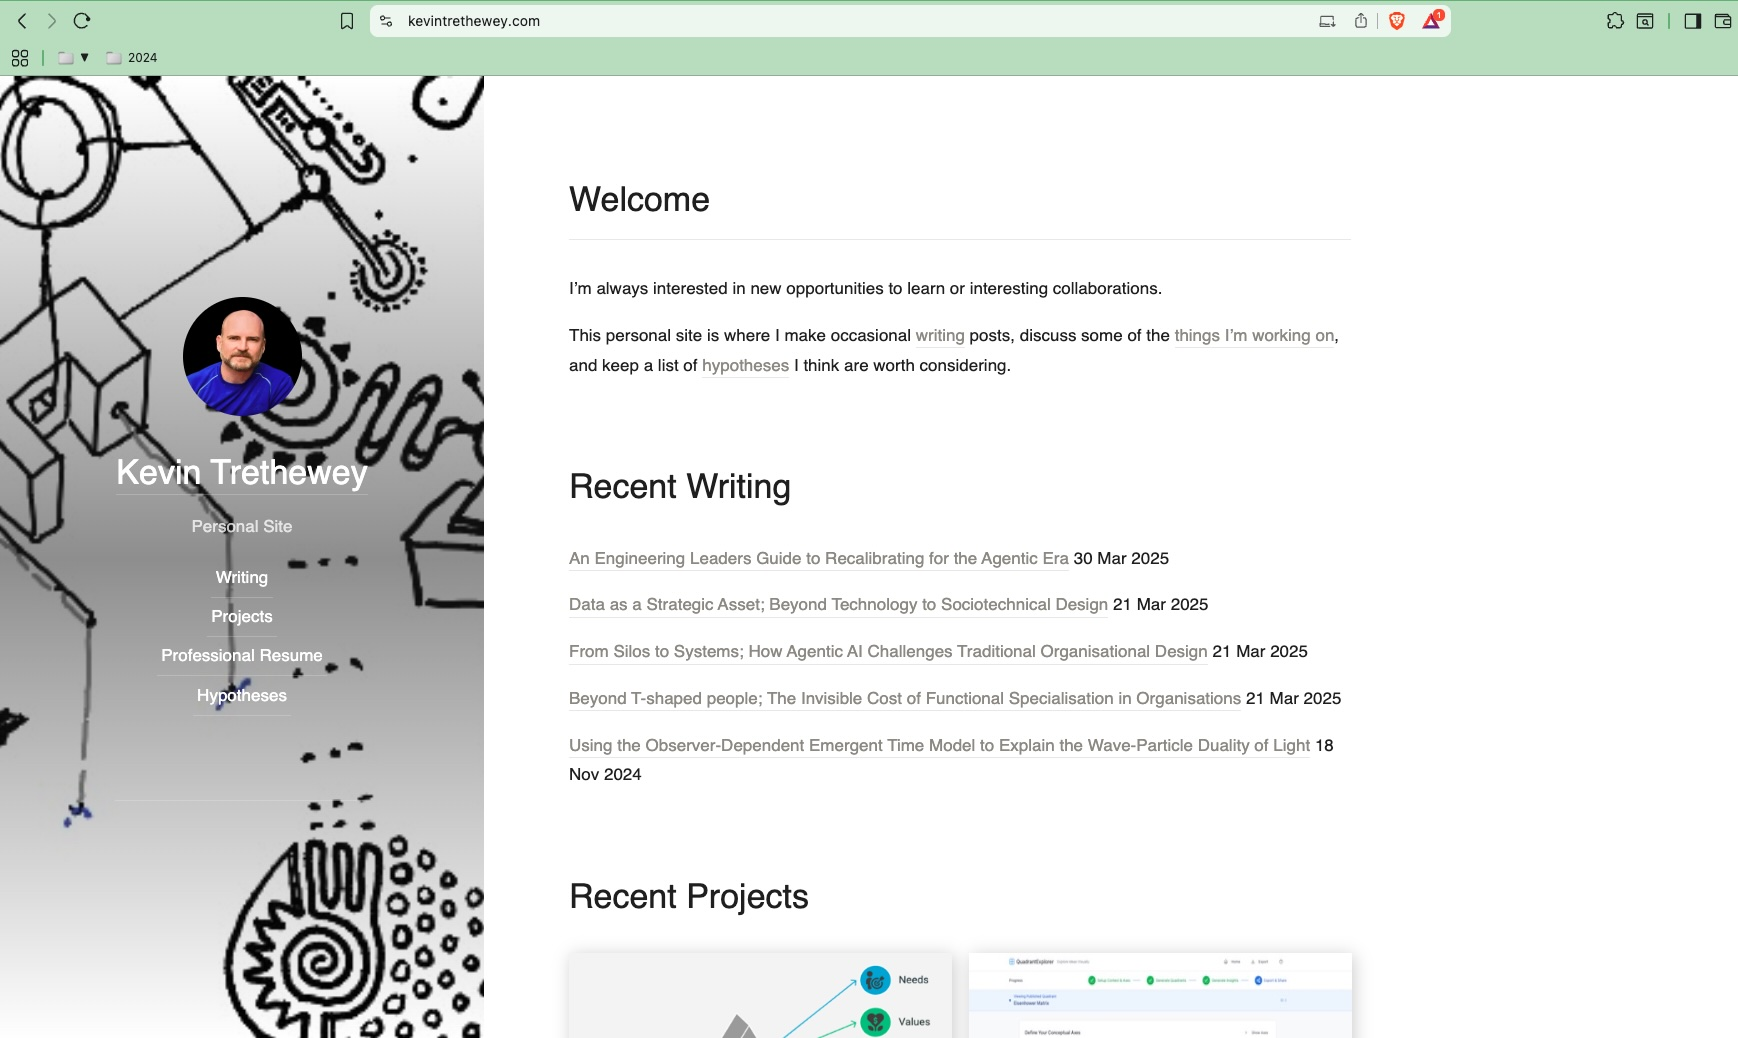
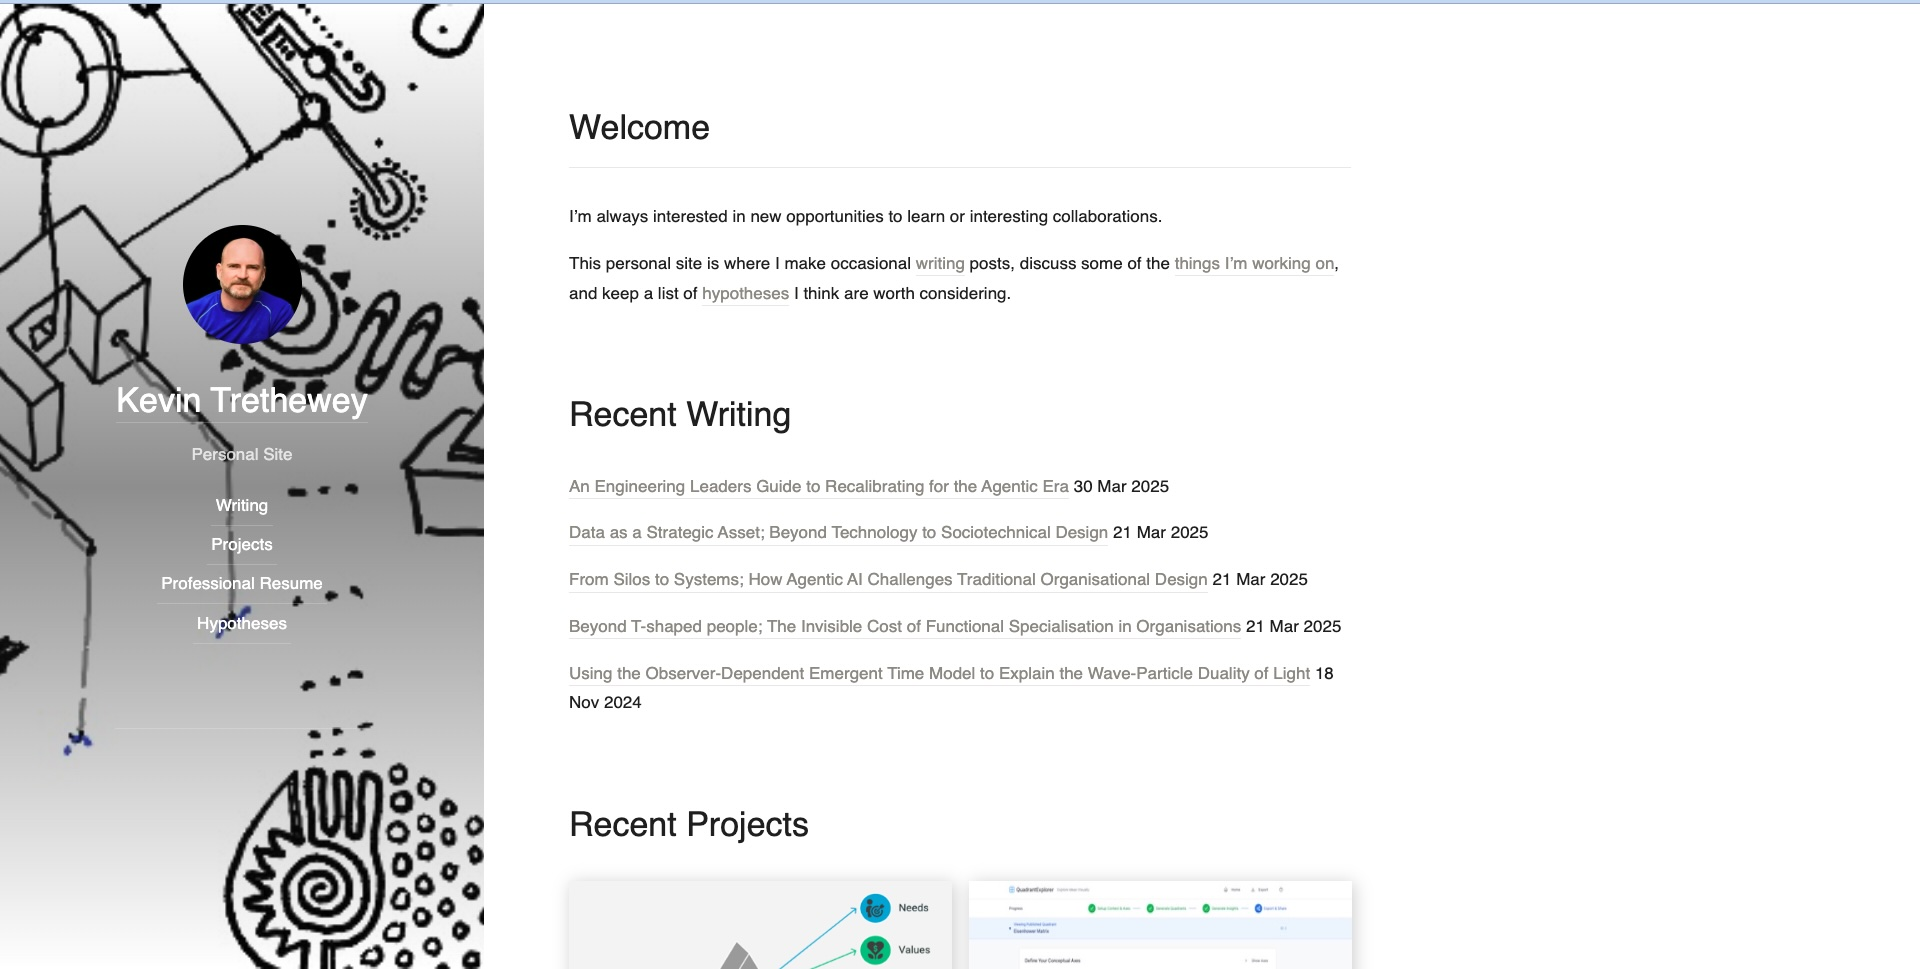
Minor fix

diff --git a/_sass/my-style.scss b/_sass/my-style.scss
@@ -77,69 +77,151 @@ p {
   margin-bottom: 1rem;
 }
 
-// Sidebar fixes for white background
-.sidebar {
-  .sidebar-sticky {
-    background: rgba(0,0,0,0.6) !important;
-    border-radius: 8px;
-    padding: 1.5rem;
-    backdrop-filter: blur(2px);
-  }
-  
-  a {
-    color: white !important;
-    text-shadow: 0 1px 2px rgba(0,0,0,0.8);
-    font-weight: 600;
-    
-    &:hover {
-      color: rgba(255,255,255,0.9) !important;
-      text-shadow: 0 1px 3px rgba(0,0,0,0.9);
-    }
-  }
-  
-  .text-muted,
-  p, span, div {
-    color: rgba(255,255,255,0.8) !important;
-    text-shadow: 0 1px 2px rgba(0,0,0,0.8);
-  }
-  
-  h1, h2, h3, h4, h5, h6 {
-    color: white !important;
-    text-shadow: 0 1px 2px rgba(0,0,0,0.8);
-  }
+// ULTIMATE NUCLEAR OPTION - MOST AGGRESSIVE CSS POSSIBLE
+html:not(#nonexistent) body:not(#nonexistent) #_yPushState:not(#nonexistent) hy-drawer.loaded:not(#nonexistent) .sidebar:not(#nonexistent) .sidebar-sticky:not(#nonexistent),
+html:not(#nonexistent) body:not(#nonexistent) hy-drawer.loaded:not(#nonexistent) .sidebar:not(#nonexistent) .sidebar-sticky:not(#nonexistent),
+html:not(#nonexistent) body:not(#nonexistent) .sidebar:not(#nonexistent) .sidebar-sticky:not(#nonexistent),
+html:not(#nonexistent) .sidebar:not(#nonexistent) .sidebar-sticky:not(#nonexistent),
+.sidebar .sidebar-sticky {
+  background: rgba(0,0,0,0.8) !important;
+  border-radius: 8px !important;
+  padding: 1.5rem !important;
+  backdrop-filter: blur(4px) !important;
+  position: relative !important;
+  z-index: 999 !important;
+  box-shadow: 0 4px 12px rgba(0,0,0,0.5) !important;
 }
 
-// Background image and navigation fixes
+// ULTIMATE TEXT FIXES
+html:not(#nonexistent) body:not(#nonexistent) #_yPushState:not(#nonexistent) hy-drawer.loaded:not(#nonexistent) .sidebar:not(#nonexistent) a:not(#nonexistent),
+html:not(#nonexistent) body:not(#nonexistent) hy-drawer.loaded:not(#nonexistent) .sidebar:not(#nonexistent) a:not(#nonexistent),
+html:not(#nonexistent) body:not(#nonexistent) .sidebar:not(#nonexistent) a:not(#nonexistent),
+html:not(#nonexistent) .sidebar:not(#nonexistent) a:not(#nonexistent),
+.sidebar a {
+  color: #ffffff !important;
+  text-shadow: 0 2px 4px rgba(0,0,0,1) !important;
+  font-weight: 700 !important;
+  text-decoration: none !important;
+}
+
+html:not(#nonexistent) body:not(#nonexistent) #_yPushState:not(#nonexistent) hy-drawer.loaded:not(#nonexistent) .sidebar:not(#nonexistent) a:hover:not(#nonexistent),
+html:not(#nonexistent) body:not(#nonexistent) hy-drawer.loaded:not(#nonexistent) .sidebar:not(#nonexistent) a:hover:not(#nonexistent),
+html:not(#nonexistent) body:not(#nonexistent) .sidebar:not(#nonexistent) a:hover:not(#nonexistent),
+.sidebar a:hover {
+  color: #ffffff !important;
+  text-shadow: 0 2px 6px rgba(0,0,0,1) !important;
+  opacity: 0.9 !important;
+}
+
+// ULTIMATE TEXT ELEMENTS
+html:not(#nonexistent) body:not(#nonexistent) #_yPushState:not(#nonexistent) hy-drawer.loaded:not(#nonexistent) .sidebar:not(#nonexistent) .text-muted:not(#nonexistent),
+html:not(#nonexistent) body:not(#nonexistent) #_yPushState:not(#nonexistent) hy-drawer.loaded:not(#nonexistent) .sidebar:not(#nonexistent) p:not(#nonexistent),
+html:not(#nonexistent) body:not(#nonexistent) #_yPushState:not(#nonexistent) hy-drawer.loaded:not(#nonexistent) .sidebar:not(#nonexistent) span:not(#nonexistent),
+html:not(#nonexistent) body:not(#nonexistent) #_yPushState:not(#nonexistent) hy-drawer.loaded:not(#nonexistent) .sidebar:not(#nonexistent) div:not(#nonexistent),
+html:not(#nonexistent) body:not(#nonexistent) hy-drawer.loaded:not(#nonexistent) .sidebar:not(#nonexistent) .text-muted:not(#nonexistent),
+html:not(#nonexistent) body:not(#nonexistent) hy-drawer.loaded:not(#nonexistent) .sidebar:not(#nonexistent) p:not(#nonexistent),
+html:not(#nonexistent) body:not(#nonexistent) hy-drawer.loaded:not(#nonexistent) .sidebar:not(#nonexistent) span:not(#nonexistent),
+html:not(#nonexistent) body:not(#nonexistent) hy-drawer.loaded:not(#nonexistent) .sidebar:not(#nonexistent) div:not(#nonexistent),
+html:not(#nonexistent) body:not(#nonexistent) .sidebar:not(#nonexistent) .text-muted:not(#nonexistent),
+html:not(#nonexistent) body:not(#nonexistent) .sidebar:not(#nonexistent) p:not(#nonexistent),
+html:not(#nonexistent) body:not(#nonexistent) .sidebar:not(#nonexistent) span:not(#nonexistent),
+html:not(#nonexistent) body:not(#nonexistent) .sidebar:not(#nonexistent) div:not(#nonexistent),
+.sidebar .text-muted,
+.sidebar p,
+.sidebar span,
+.sidebar div {
+  color: #ffffff !important;
+  text-shadow: 0 2px 4px rgba(0,0,0,1) !important;
+  font-weight: 600 !important;
+}
+
+// ULTIMATE HEADINGS
+html:not(#nonexistent) body:not(#nonexistent) #_yPushState:not(#nonexistent) hy-drawer.loaded:not(#nonexistent) .sidebar:not(#nonexistent) h1:not(#nonexistent),
+html:not(#nonexistent) body:not(#nonexistent) #_yPushState:not(#nonexistent) hy-drawer.loaded:not(#nonexistent) .sidebar:not(#nonexistent) h2:not(#nonexistent),
+html:not(#nonexistent) body:not(#nonexistent) #_yPushState:not(#nonexistent) hy-drawer.loaded:not(#nonexistent) .sidebar:not(#nonexistent) h3:not(#nonexistent),
+html:not(#nonexistent) body:not(#nonexistent) #_yPushState:not(#nonexistent) hy-drawer.loaded:not(#nonexistent) .sidebar:not(#nonexistent) h4:not(#nonexistent),
+html:not(#nonexistent) body:not(#nonexistent) #_yPushState:not(#nonexistent) hy-drawer.loaded:not(#nonexistent) .sidebar:not(#nonexistent) h5:not(#nonexistent),
+html:not(#nonexistent) body:not(#nonexistent) #_yPushState:not(#nonexistent) hy-drawer.loaded:not(#nonexistent) .sidebar:not(#nonexistent) h6:not(#nonexistent),
+html:not(#nonexistent) body:not(#nonexistent) hy-drawer.loaded:not(#nonexistent) .sidebar:not(#nonexistent) h1:not(#nonexistent),
+html:not(#nonexistent) body:not(#nonexistent) hy-drawer.loaded:not(#nonexistent) .sidebar:not(#nonexistent) h2:not(#nonexistent),
+html:not(#nonexistent) body:not(#nonexistent) hy-drawer.loaded:not(#nonexistent) .sidebar:not(#nonexistent) h3:not(#nonexistent),
+html:not(#nonexistent) body:not(#nonexistent) hy-drawer.loaded:not(#nonexistent) .sidebar:not(#nonexistent) h4:not(#nonexistent),
+html:not(#nonexistent) body:not(#nonexistent) hy-drawer.loaded:not(#nonexistent) .sidebar:not(#nonexistent) h5:not(#nonexistent),
+html:not(#nonexistent) body:not(#nonexistent) hy-drawer.loaded:not(#nonexistent) .sidebar:not(#nonexistent) h6:not(#nonexistent),
+html:not(#nonexistent) body:not(#nonexistent) .sidebar:not(#nonexistent) h1:not(#nonexistent),
+html:not(#nonexistent) body:not(#nonexistent) .sidebar:not(#nonexistent) h2:not(#nonexistent),
+html:not(#nonexistent) body:not(#nonexistent) .sidebar:not(#nonexistent) h3:not(#nonexistent),
+html:not(#nonexistent) body:not(#nonexistent) .sidebar:not(#nonexistent) h4:not(#nonexistent),
+html:not(#nonexistent) body:not(#nonexistent) .sidebar:not(#nonexistent) h5:not(#nonexistent),
+html:not(#nonexistent) body:not(#nonexistent) .sidebar:not(#nonexistent) h6:not(#nonexistent),
+.sidebar h1,
+.sidebar h2,
+.sidebar h3,
+.sidebar h4,
+.sidebar h5,
+.sidebar h6 {
+  color: #ffffff !important;
+  text-shadow: 0 2px 4px rgba(0,0,0,1) !important;
+  font-weight: 700 !important;
+}
+
+// ULTIMATE NAVIGATION BUTTONS
+html:not(#nonexistent) body:not(#nonexistent) #_yPushState:not(#nonexistent) .nav-btn:not(#nonexistent),
+html:not(#nonexistent) body:not(#nonexistent) .nav-btn:not(#nonexistent),
+html:not(#nonexistent) .nav-btn:not(#nonexistent),
+.nav-btn {
+  color: #ffffff !important;
+  opacity: 1 !important;
+  text-shadow: 0 2px 4px rgba(0,0,0,1) !important;
+}
+
+html:not(#nonexistent) body:not(#nonexistent) #_yPushState:not(#nonexistent) .nav-btn:not(#nonexistent) .icon-contrast:not(#nonexistent),
+html:not(#nonexistent) body:not(#nonexistent) #_yPushState:not(#nonexistent) .nav-btn:not(#nonexistent) .icon-menu:not(#nonexistent),
+html:not(#nonexistent) body:not(#nonexistent) .nav-btn:not(#nonexistent) .icon-contrast:not(#nonexistent),
+html:not(#nonexistent) body:not(#nonexistent) .nav-btn:not(#nonexistent) .icon-menu:not(#nonexistent),
+.nav-btn .icon-contrast,
+.nav-btn .icon-menu {
+  color: #ffffff !important;
+  opacity: 1 !important;
+  font-size: 1.4rem !important;
+  text-shadow: 0 2px 4px rgba(0,0,0,1) !important;
+}
+
+html:not(#nonexistent) body:not(#nonexistent) #_yPushState:not(#nonexistent) .nav-btn:hover:not(#nonexistent),
+html:not(#nonexistent) body:not(#nonexistent) .nav-btn:hover:not(#nonexistent),
+.nav-btn:hover {
+  color: #ffffff !important;
+  opacity: 0.8 !important;
+}
+
+html:not(#nonexistent) body:not(#nonexistent) #_yPushState:not(#nonexistent) .nav-btn:hover:not(#nonexistent) .icon-contrast:not(#nonexistent),
+html:not(#nonexistent) body:not(#nonexistent) #_yPushState:not(#nonexistent) .nav-btn:hover:not(#nonexistent) .icon-menu:not(#nonexistent),
+html:not(#nonexistent) body:not(#nonexistent) .nav-btn:hover:not(#nonexistent) .icon-contrast:not(#nonexistent),
+html:not(#nonexistent) body:not(#nonexistent) .nav-btn:hover:not(#nonexistent) .icon-menu:not(#nonexistent),
+.nav-btn:hover .icon-contrast,
+.nav-btn:hover .icon-menu {
+  color: #ffffff !important;
+  opacity: 0.8 !important;
+}
+
+// ULTIMATE BACKGROUND IMAGE FIXES
+html:not(#nonexistent) body:not(#nonexistent) .sidebar-bg:not(#nonexistent),
+html:not(#nonexistent) .sidebar-bg:not(#nonexistent),
 .sidebar-bg {
   background-size: contain !important;
   background-repeat: no-repeat !important;
   background-position: center center !important;
 }
 
-.nav-btn {
-  color: white !important;
-  opacity: 1 !important;
-  
-  .icon-contrast, .icon-menu {
-    color: white !important;
-    opacity: 1 !important;
-    font-size: 1.2rem;
-    text-shadow: 0 1px 2px rgba(0,0,0,0.8);
-  }
-  
-  &:hover {
-    color: rgba(255,255,255,0.8) !important;
-    
-    .icon-contrast, .icon-menu {
-      color: rgba(255,255,255,0.8) !important;
-    }
-  }
+// SIMPLE BACKGROUND IMAGE FIX - SHOULD WORK
+.sidebar {
+  background-size: contain !important;
+  background-repeat: no-repeat !important;
+  background-position: center center !important;
 }
 
-// Higher specificity for production mode
-html body .sidebar .sidebar-sticky {
-  background: rgba(0,0,0,0.6) !important;
-  border-radius: 8px;
-  padding: 1.5rem;
-  backdrop-filter: blur(2px);
+hy-drawer .sidebar {
+  background-size: contain !important;
+  background-repeat: no-repeat !important;
+  background-position: center center !important;
 }

diff --git a/_includes/my-head.html b/_includes/my-head.html
@@ -11,3 +11,127 @@ Fill in `href`. You may have to adjust `rel`.
 -->
 <noscript><link href="<path/to/content.css>" rel="stylesheet"></noscript>
 {% endcomment %}
+
+<style>
+/* DIRECT CSS - BACKGROUND IMAGE FIX - AGGRESSIVE TARGETING */
+.sidebar,
+.sidebar-bg,
+hy-drawer .sidebar,
+hy-drawer .sidebar-bg,
+body .sidebar,
+body .sidebar-bg,
+html body .sidebar,
+html body .sidebar-bg,
+.sidebar .sidebar-bg,
+hy-drawer.loaded .sidebar,
+hy-drawer.loaded .sidebar-bg {
+  background-size: contain !important;
+  background-repeat: no-repeat !important;
+  background-position: center center !important;
+}
+
+/* Target any element with background image */
+[style*="background-image"] {
+  background-size: contain !important;
+  background-repeat: no-repeat !important;
+  background-position: center center !important;
+}
+
+/* Even more specific targeting */
+* {
+  background-size: contain !important;
+  background-repeat: no-repeat !important;
+  background-position: center center !important;
+}
+
+/* Override any inline styles */
+.sidebar[style],
+.sidebar-bg[style],
+hy-drawer .sidebar[style],
+hy-drawer .sidebar-bg[style] {
+  background-size: contain !important;
+  background-repeat: no-repeat !important;
+  background-position: center center !important;
+}
+
+/* SIDEBAR TEXT READABILITY FIXES */
+.sidebar .sidebar-sticky {
+  background: rgba(0,0,0,0.7) !important;
+  border-radius: 8px !important;
+  padding: 1.5rem !important;
+  backdrop-filter: blur(4px) !important;
+  position: relative !important;
+  z-index: 999 !important;
+  box-shadow: 0 4px 12px rgba(0,0,0,0.5) !important;
+}
+
+.sidebar a {
+  color: #ffffff !important;
+  text-shadow: 0 2px 4px rgba(0,0,0,1) !important;
+  font-weight: 700 !important;
+  text-decoration: none !important;
+}
+
+.sidebar a:hover {
+  color: #ffffff !important;
+  text-shadow: 0 2px 6px rgba(0,0,0,1) !important;
+  opacity: 0.9 !important;
+}
+
+.sidebar .text-muted,
+.sidebar p,
+.sidebar span,
+.sidebar div {
+  color: #ffffff !important;
+  text-shadow: 0 2px 4px rgba(0,0,0,1) !important;
+  font-weight: 600 !important;
+}
+
+.sidebar h1,
+.sidebar h2,
+.sidebar h3,
+.sidebar h4,
+.sidebar h5,
+.sidebar h6 {
+  color: #ffffff !important;
+  text-shadow: 0 2px 4px rgba(0,0,0,1) !important;
+  font-weight: 700 !important;
+}
+
+/* NAVIGATION BUTTONS - SIMPLE VISIBILITY FIX */
+#_menu,
+#_search {
+  color: #000000 !important;
+  background: rgba(255,255,255,0.7) !important;
+  border-radius: 3px !important;
+  padding: 4px !important;
+}
+
+.icon-menu::before,
+.icon-contrast::before {
+  color: #000000 !important;
+  text-shadow: 0 0 2px rgba(255,255,255,1) !important;
+}
+
+.nav-btn:hover,
+a.nav-btn:hover,
+#_menu:hover,
+#_search:hover {
+  color: #ffffff !important;
+  opacity: 0.8 !important;
+  background: rgba(0,0,0,0.5) !important;
+}
+
+.nav-btn:hover .icon-contrast,
+.nav-btn:hover .icon-menu,
+a.nav-btn:hover .icon-contrast,
+a.nav-btn:hover .icon-menu,
+#_menu:hover .icon-contrast,
+#_menu:hover .icon-menu,
+#_search:hover .icon-contrast,
+#_search:hover .icon-menu {
+  color: #ffffff !important;
+  opacity: 0.8 !important;
+}
+
+</style>

diff --git a/_includes/my-direct-css.html b/_includes/my-direct-css.html
@@ -1,0 +1,14 @@
+<style>
+/* DIRECT CSS - BACKGROUND IMAGE FIX */
+.sidebar {
+  background-size: contain !important;
+  background-repeat: no-repeat !important;
+  background-position: center center !important;
+}
+
+hy-drawer .sidebar {
+  background-size: contain !important;
+  background-repeat: no-repeat !important;
+  background-position: center center !important;
+}
+</style>

diff --git a/_sass/my-contrast-enhancements.scss b/_sass/my-contrast-enhancements.scss
@@ -192,3 +192,11 @@ table {
     }
   }
 }
+
+// Higher specificity version for production mode CSS ordering
+html body .sidebar .sidebar-sticky {
+  background: rgba(0,0,0,0.6) !important;
+  border-radius: 8px;
+  padding: 1.5rem;
+  backdrop-filter: blur(2px);
+}
